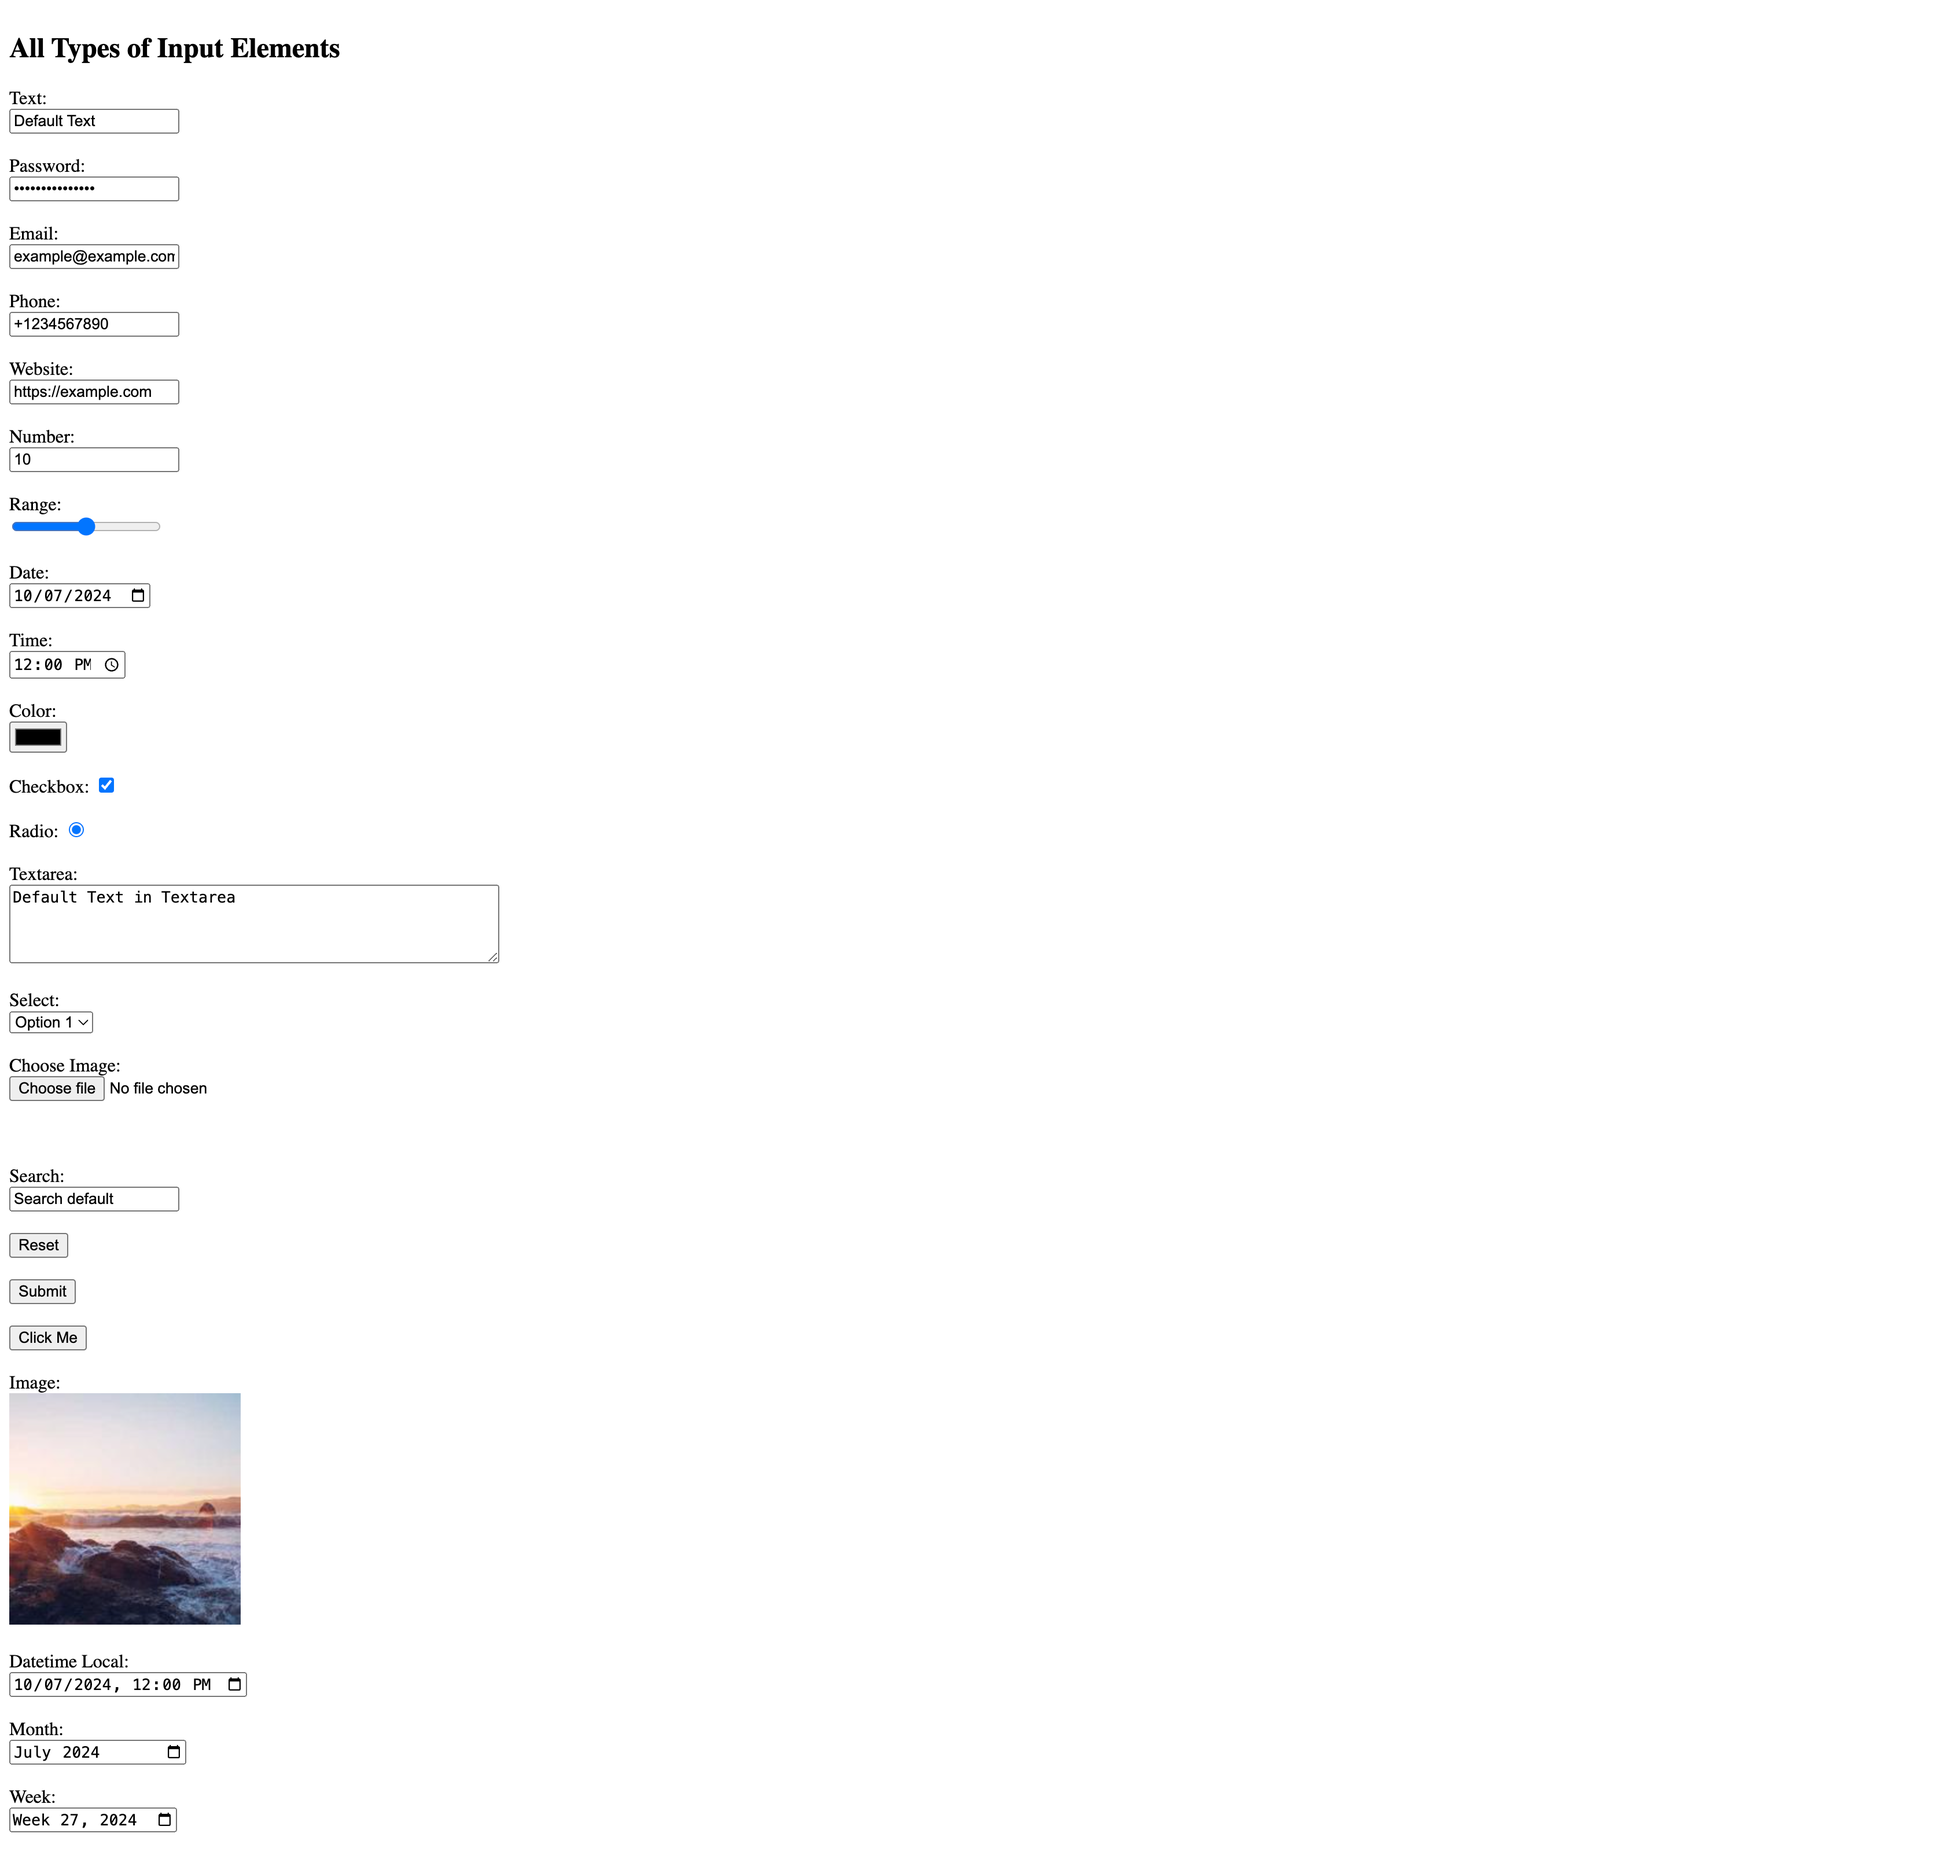
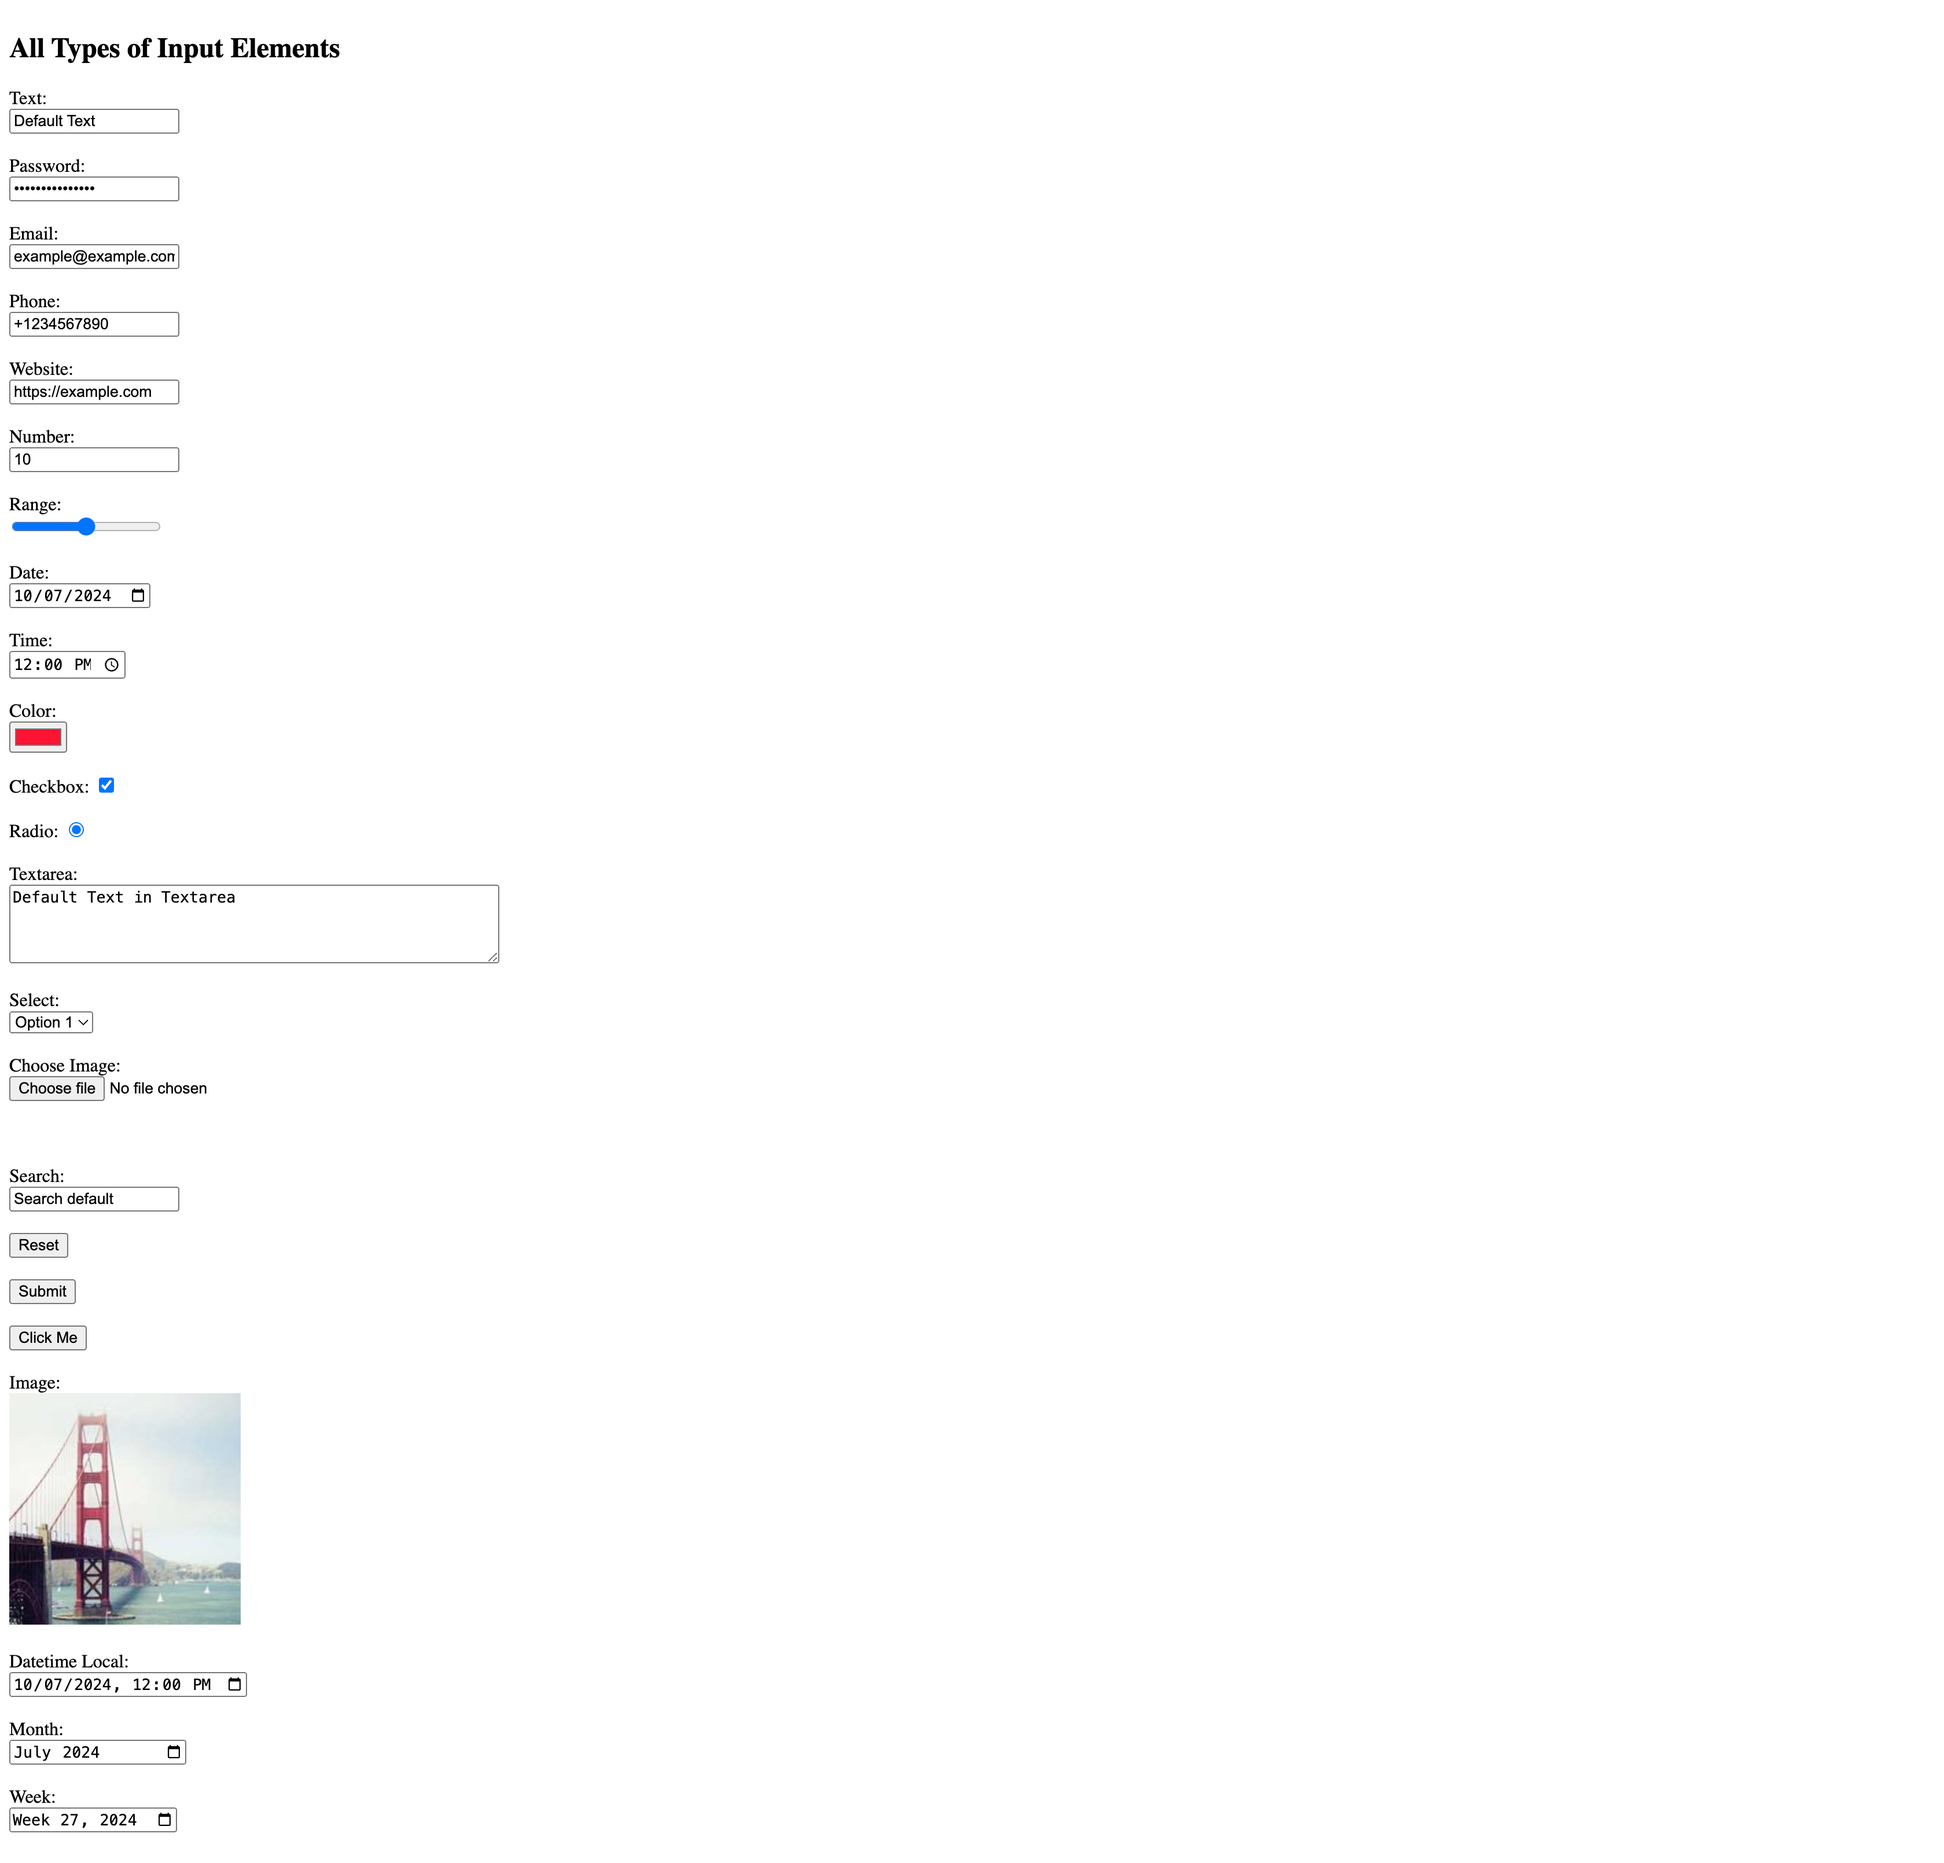
third commit

Changed region(s): [[0.0, 0.7453, 0.125, 0.8696], [0.0, 0.3727, 0.0312, 0.4037]]

diff --git a/HTMLQ9.html b/HTMLQ9.html
@@ -43,10 +43,6 @@
         <label for="time-input">Time:</label><br>
         <input type="time" id="time-input" name="time-input" value="12:00"><br><br>
 
-        <!-- Color Input -->
-        <label for="color-input">Color:</label><br>
-        <input type="color" id="color-input" name="color-input" value="#ff0000"><br><br>
-
         <!-- Checkbox -->
         <label for="checkbox-input">Checkbox:</label>
         <input type="checkbox" id="checkbox-input" name="checkbox-input" checked><br><br>

diff --git a/HTMLQ11.html b/HTMLQ11.html
@@ -46,7 +46,7 @@
 
         <!-- Color Input -->
         <label for="color-input">Color:</label><br>
-        <input type="color" id="color-input" name="color-input" value="black"><br><br>
+        <input type="color" id="color-input" name="color-input" value="#ff1234"><br><br>
 
         <!-- Checkbox -->
         <label for="checkbox-input">Checkbox:</label>
